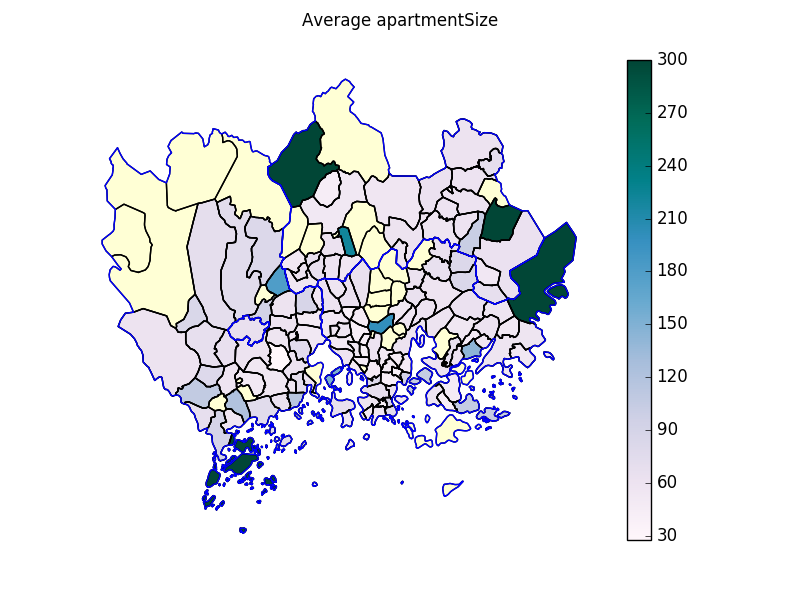
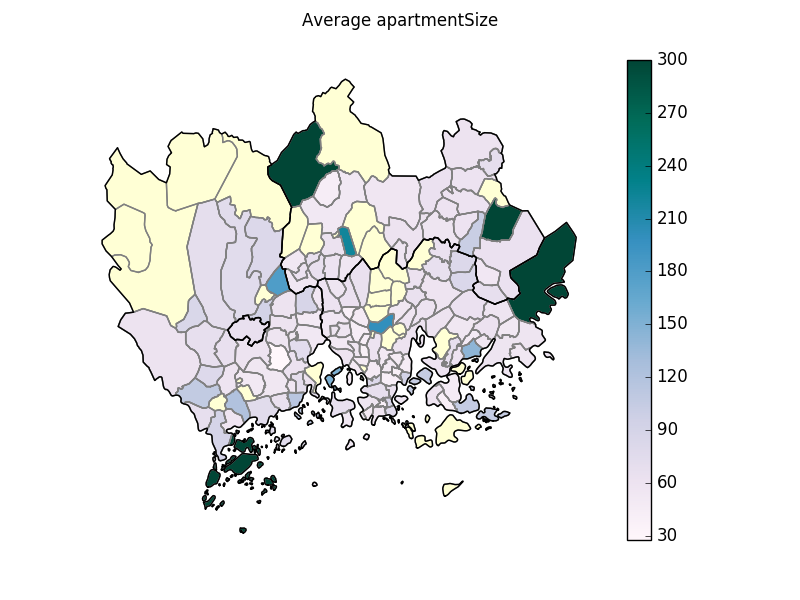
modifired map borders

diff --git a/src/mapMaker.py b/src/mapMaker.py
@@ -46,14 +46,14 @@ def makeMap(map, info, mergeColumn, drawColumn, title, savePath = None, maxValue
 
     #plot
     #plot empty on the bottom
-    basemap.plot(color = '#ffffad', ax = ax)
+    basemap.plot(color = '#ffffad', ax = ax, edgecolor = 'grey')
 
     #plot the map
-    plottedMap = map.plot(column = drawColumn, cmap = 'PuBuGn', vmin = colorbarMin, vmax = colorbarMax, ax = ax, alpha = 1)
+    plottedMap = map.plot(edgecolor = 'grey', column = drawColumn, cmap = 'PuBuGn', vmin = colorbarMin, vmax = colorbarMax, ax = ax, alpha = 1)
     # get the map as a figure
 
     #plot borders
-    kunnat.plot(ax = ax, alpha = 0, edgecolor = 'blue')
+    kunnat.plot(ax = ax, alpha = 0, edgecolor = 'black')
 
     #fig = plottedMap.get_figure()
 
